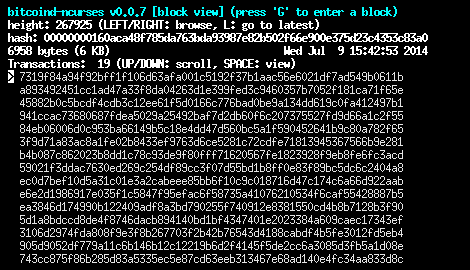
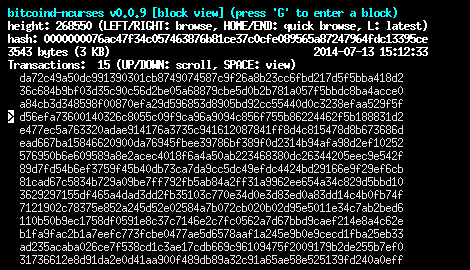
Version bump, screenshot update

Changed region(s): [[0.0, 0.0296, 0.9234, 0.9778]]

diff --git a/global_mod.py b/global_mod.py
@@ -1,3 +1,3 @@
 #!/usr/bin/env python
 
-version = "v0.0.8"
+version = "v0.0.9"
